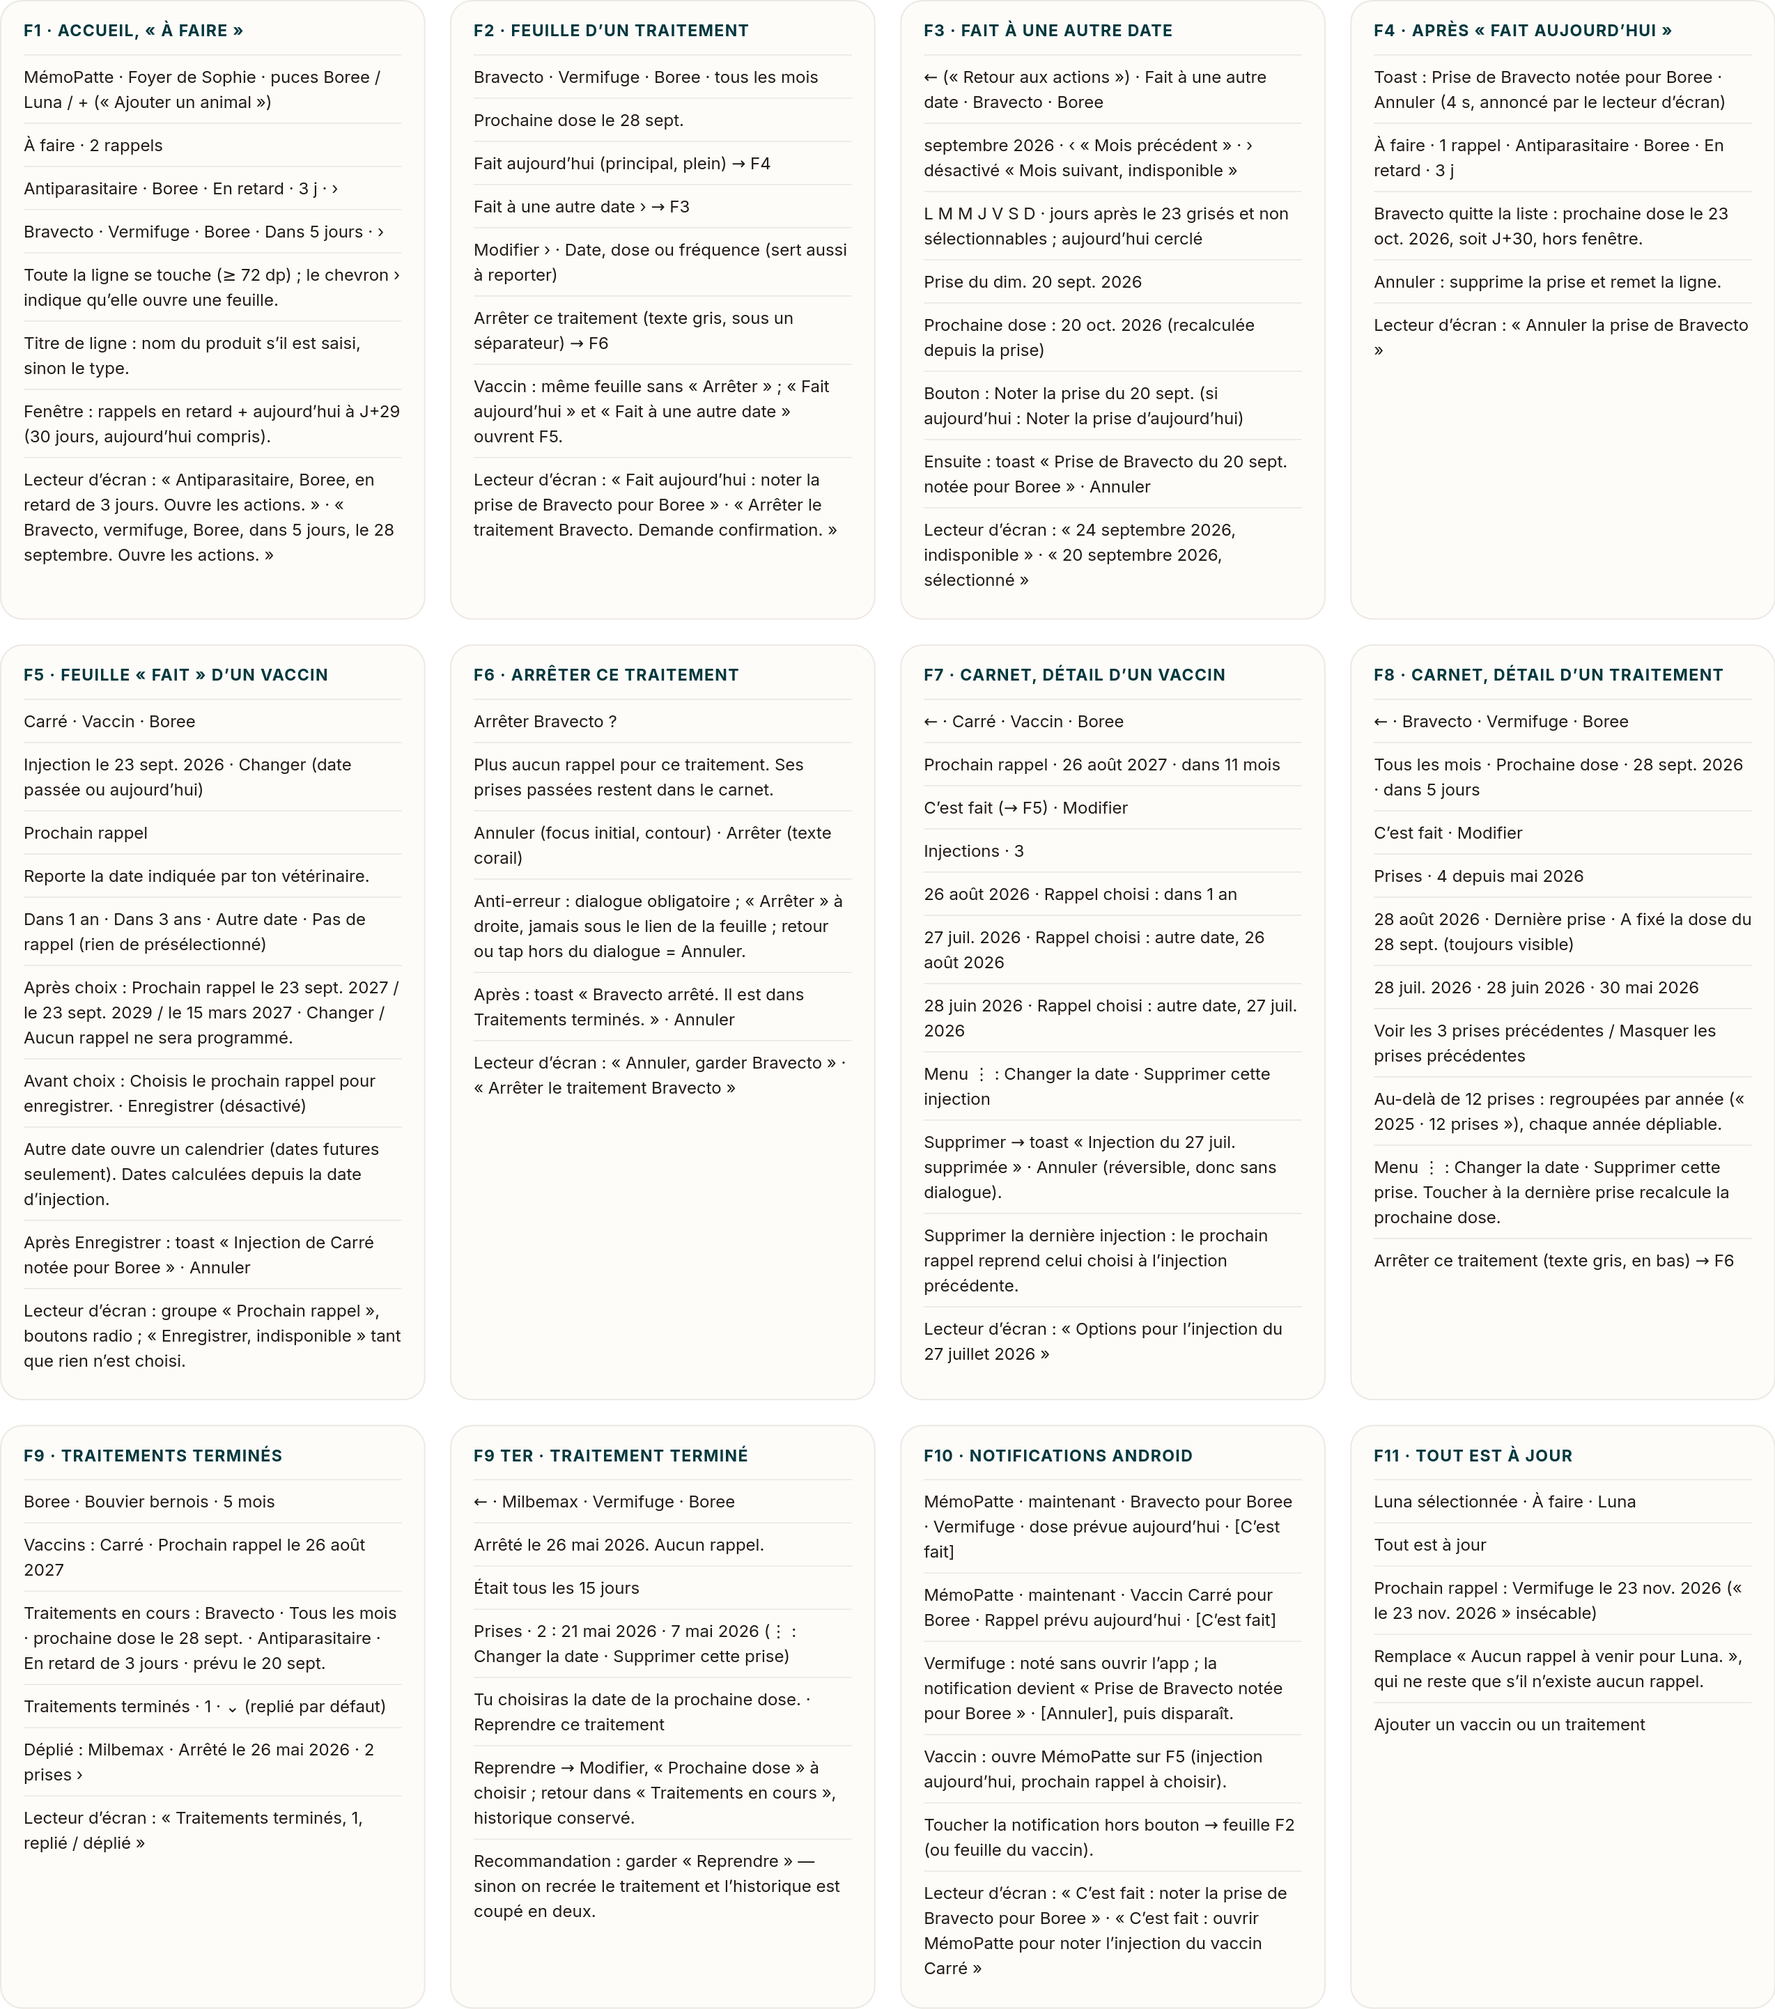
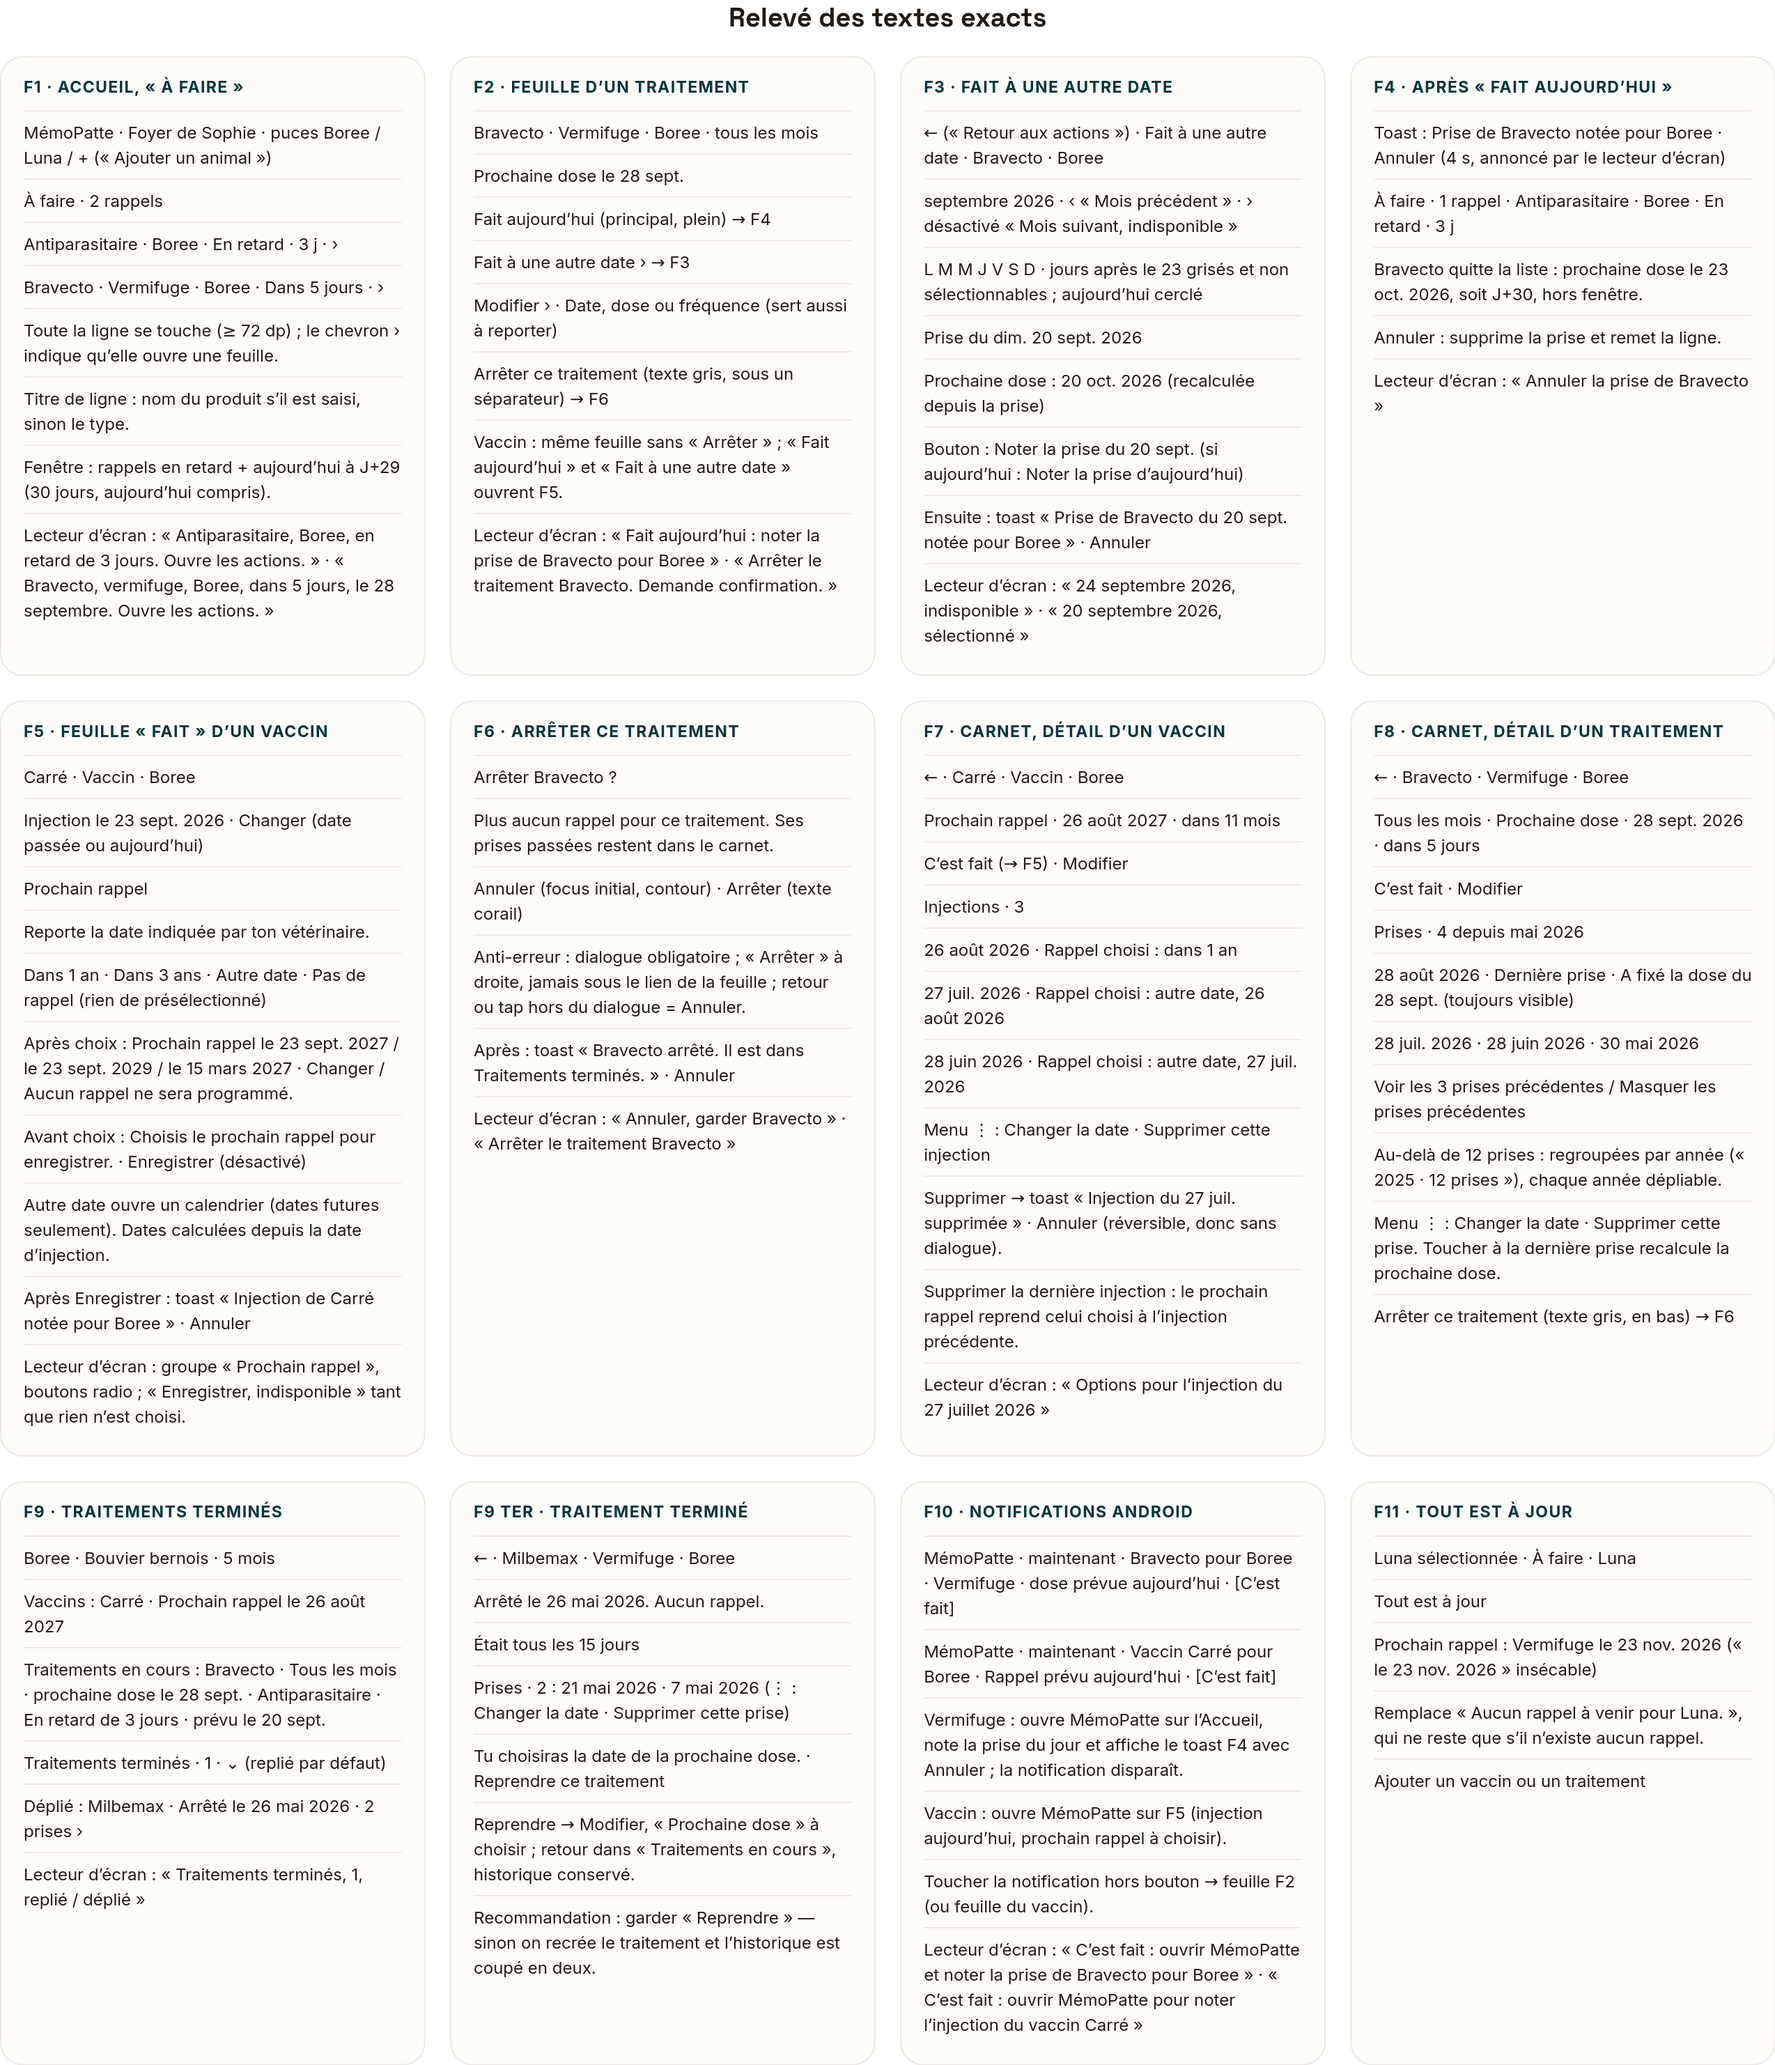
docs(design): planche F10 corrigée, « C'est fait » ouvre l'app (#384)

diff --git a/docs/design/rappels/rappel-fait.md b/docs/design/rappels/rappel-fait.md
@@ -10,7 +10,7 @@ Les données d'exemple (« Foyer de Sophie », animaux, dates) sont fictives : l
 
 Journal du 2026-09-24, points 1 à 5 :
 
-- F10 : « C'est fait » **ouvre l'app** (limite d'Android), qui note la prise et affiche le toast ; planche F10 à corriger
+- F10 : « C'est fait » **ouvre l'app** (limite d'Android), qui note la prise et affiche le toast ; planche F10 corrigée le 2026-09-25
 - F1 / F4 : fenêtre d'aujourd'hui à **J+29**
 - F2 : « Modifier » se décrit **« Date ou fréquence »**
 - Toasts : bouton **« Annuler »** ajouté
@@ -132,10 +132,10 @@ Journal du 2026-09-24, points 1 à 5 :
 
 - MémoPatte · maintenant · Bravecto pour Boree · Vermifuge · dose prévue aujourd’hui · [C’est fait]
 - MémoPatte · maintenant · Vaccin Carré pour Boree · Rappel prévu aujourd’hui · [C’est fait]
-- Vermifuge : noté sans ouvrir l’app ; la notification devient « Prise de Bravecto notée pour Boree » · [Annuler], puis disparaît.
+- Vermifuge : ouvre MémoPatte sur l’Accueil, note la prise du jour et affiche le toast F4 avec Annuler ; la notification disparaît.
 - Vaccin : ouvre MémoPatte sur F5 (injection aujourd’hui, prochain rappel à choisir).
 - Toucher la notification hors bouton → feuille F2 (ou feuille du vaccin).
-- Lecteur d’écran : « C’est fait : noter la prise de Bravecto pour Boree » · « C’est fait : ouvrir MémoPatte pour noter l’injection du vaccin Carré »
+- Lecteur d’écran : « C’est fait : ouvrir MémoPatte et noter la prise de Bravecto pour Boree » · « C’est fait : ouvrir MémoPatte pour noter l’injection du vaccin Carré »
 
 ### F11 · TOUT EST À JOUR
 
